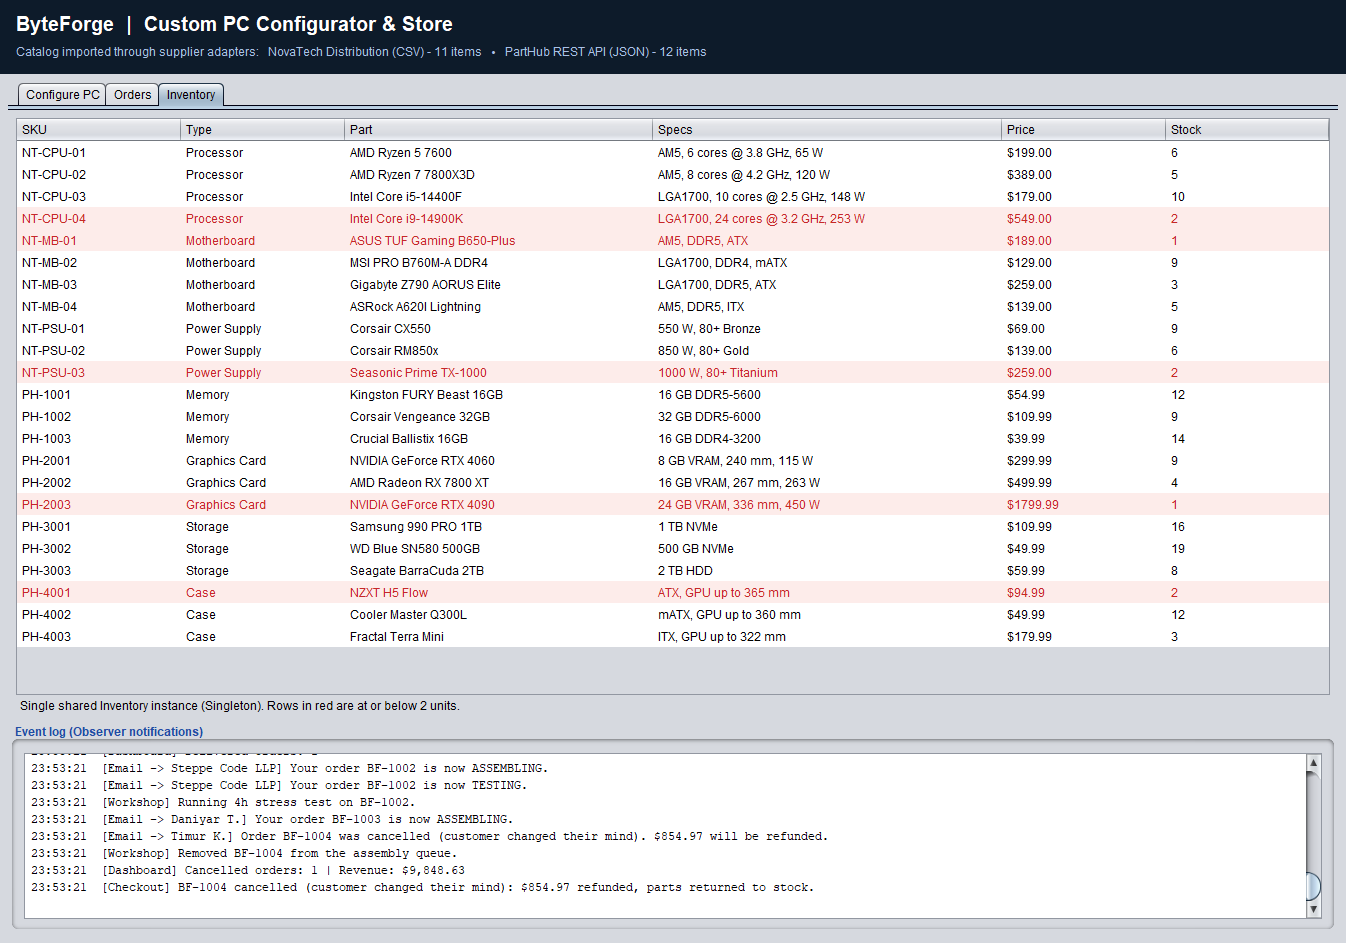
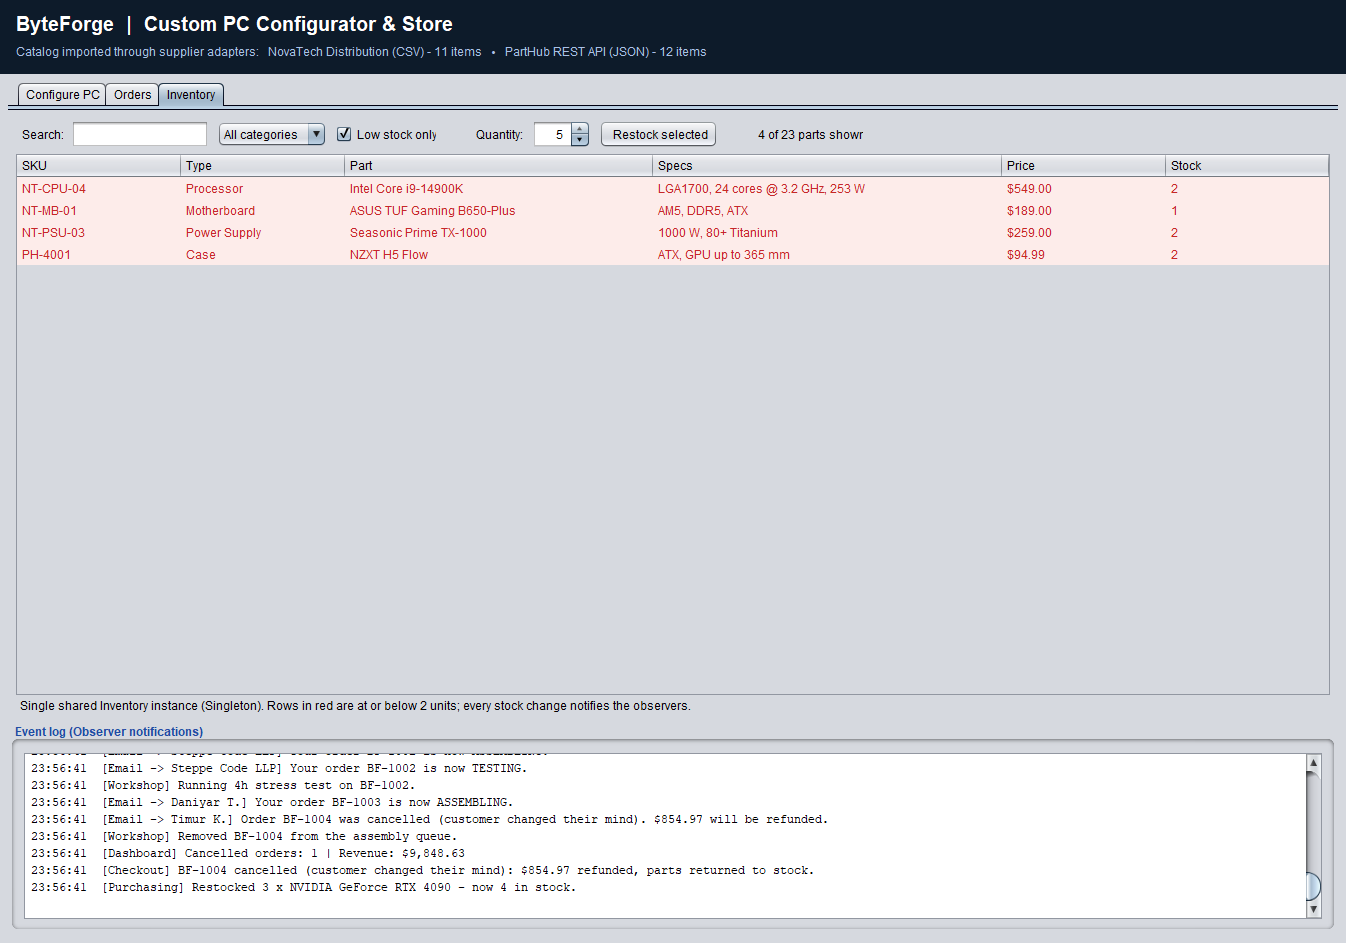
Add inventory search, filters and restocking to the GUI
- Inventory tab toolbar: text search (SKU, name, specs), category
  filter, "low stock only" filter and a counter of shown parts
- "Restock selected" with a quantity; goes through the new
  StoreFacade.restock(), which logs the delivery for purchasing
- Screenshot tour restocks the RTX 4090 and shows the low-stock view
- Add .gitattributes so line endings are normalised (run.bat keeps CRLF)
- New Facade restock test (45 tests, all passing)

diff --git a/src/com/byteforge/ui/MainFrame.java b/src/com/byteforge/ui/MainFrame.java
@@ -23,6 +23,7 @@ import javax.swing.border.EmptyBorder;
 import javax.swing.border.TitledBorder;
 import javax.swing.table.AbstractTableModel;
 import javax.swing.table.DefaultTableCellRenderer;
+import javax.swing.table.TableRowSorter;
 import java.awt.*;
 import java.time.LocalTime;
 import java.time.format.DateTimeFormatter;
@@ -67,9 +68,16 @@ public class MainFrame extends JFrame implements ConfigurationEditor {
     private final OrdersModel ordersModel = new OrdersModel();
     private final JTable ordersTable = new JTable(ordersModel);
     private final JLabel dashboardLabel = new JLabel();
-    private final JLabel orderHint = new JLabel("Select an order to see what can happen next.");
-    private final JButton cancelButton = new JButton("Cancel selected order");
     private final InventoryModel inventoryModel = new InventoryModel();
+    private final JTable inventoryTable = new JTable(inventoryModel);
+    private TableRowSorter<InventoryModel> inventorySorter; // created once the store exists
+    private final JTextField inventorySearch = new JTextField(14);
+    private final JComboBox<String> inventoryTypeBox = new JComboBox<>();
+    private final JCheckBox lowStockOnly = new JCheckBox("Low stock only");
+    private final JSpinner restockQty = new JSpinner(new SpinnerNumberModel(5, 1, 100, 1));
+    private final JLabel inventoryCount = new JLabel();
+    private final JLabel orderHint =new JLabel("Select an order to see what can happen next.");
+    private final JButton cancelButton = new JButton("Cancel selected order");
     private final JTabbedPane tabs = new JTabbedPane();
 
     private Computer currentComputer;
@@ -286,19 +294,89 @@ public class MainFrame extends JFrame implements ConfigurationEditor {
     }
 
     private JComponent inventoryTab() {
-        JTable table = new JTable(inventoryModel);
-        table.setRowHeight(22);
-        table.setAutoCreateRowSorter(true);
-        table.getColumnModel().getColumn(2).setPreferredWidth(220);
-        table.getColumnModel().getColumn(3).setPreferredWidth(260);
-        table.setDefaultRenderer(Object.class, new StockRenderer());
+        inventoryTable.setRowHeight(22);
+        inventorySorter = new TableRowSorter<>(inventoryModel);
+        inventoryTable.setRowSorter(inventorySorter);
+        inventoryTable.getColumnModel().getColumn(2).setPreferredWidth(220);
+        inventoryTable.getColumnModel().getColumn(3).setPreferredWidth(260);
+        inventoryTable.setDefaultRenderer(Object.class, new StockRenderer());
+        inventoryTable.getSelectionModel().setSelectionMode(ListSelectionModel.SINGLE_SELECTION);
+
+        // ---- toolbar: search, category filter, low-stock filter, restock
+        inventoryTypeBox.addItem("All categories");
+        for (ComponentType t : ComponentType.values()) inventoryTypeBox.addItem(t.label());
+        inventorySearch.getDocument().addDocumentListener(new javax.swing.event.DocumentListener() {
+            public void insertUpdate(javax.swing.event.DocumentEvent e) { applyInventoryFilter(); }
+            public void removeUpdate(javax.swing.event.DocumentEvent e) { applyInventoryFilter(); }
+            public void changedUpdate(javax.swing.event.DocumentEvent e) { applyInventoryFilter(); }
+        });
+        inventoryTypeBox.addActionListener(e -> applyInventoryFilter());
+        lowStockOnly.addActionListener(e -> applyInventoryFilter());
+        JButton restock = new JButton("Restock selected");
+        restock.addActionListener(e -> restockSelected());
+
+        JPanel bar = new JPanel(new FlowLayout(FlowLayout.LEFT, 8, 4));
+        bar.add(new JLabel("Search:"));
+        bar.add(inventorySearch);
+        bar.add(inventoryTypeBox);
+        bar.add(lowStockOnly);
+        bar.add(Box.createHorizontalStrut(24));
+        bar.add(new JLabel("Quantity:"));
+        bar.add(restockQty);
+        bar.add(restock);
+        bar.add(Box.createHorizontalStrut(24));
+        bar.add(inventoryCount);
+
         JPanel p = new JPanel(new BorderLayout());
         p.setBorder(new EmptyBorder(6, 6, 6, 6));
-        p.add(new JScrollPane(table), BorderLayout.CENTER);
+        p.add(bar, BorderLayout.NORTH);
+        p.add(new JScrollPane(inventoryTable), BorderLayout.CENTER);
         JLabel note = new JLabel("  Single shared Inventory instance (Singleton). Rows in red are at or below "
-                + Inventory.LOW_STOCK_THRESHOLD + " units.");
+                + Inventory.LOW_STOCK_THRESHOLD + " units; every stock change notifies the observers.");
         p.add(note, BorderLayout.SOUTH);
+        applyInventoryFilter();
         return p;
+    }
+
+    void applyInventoryFilter() {
+        String text = inventorySearch.getText().trim().toLowerCase();
+        String type = inventoryTypeBox.getSelectedIndex() <= 0 ? null : (String) inventoryTypeBox.getSelectedItem();
+        boolean low = lowStockOnly.isSelected();
+        inventorySorter.setRowFilter(new RowFilter<InventoryModel, Integer>() {
+            @Override
+            public boolean include(Entry<? extends InventoryModel, ? extends Integer> e) {
+                Component c = store.getAllParts().get(e.getIdentifier());
+                if (type != null && !c.getType().label().equals(type)) return false;
+                if (low && store.getStock(c) > Inventory.LOW_STOCK_THRESHOLD) return false;
+                if (text.isEmpty()) return true;
+                return (c.getSku() + " " + c.getName() + " " + c.getSpecs()).toLowerCase().contains(text);
+            }
+        });
+        inventoryCount.setText(inventoryTable.getRowCount() + " of " + store.getAllParts().size() + " parts shown");
+        inventoryCount.revalidate();
+    }
+
+    private void restockSelected() {
+        int row = inventoryTable.getSelectedRow();
+        if (row < 0) {
+            showError("Select a part in the table first.", "Restock");
+            return;
+        }
+        restockPart(store.getAllParts().get(inventoryTable.convertRowIndexToModel(row)), (Integer) restockQty.getValue());
+    }
+
+    void restockPart(Component c, int qty) {
+        store.restock(c, qty);
+        inventoryModel.fireTableDataChanged();
+        applyInventoryFilter();
+        refreshPickerLabels();
+    }
+
+    void setInventoryFilter(String text, int typeIndex, boolean lowOnly) {
+        inventorySearch.setText(text);
+        inventoryTypeBox.setSelectedIndex(typeIndex);
+        lowStockOnly.setSelected(lowOnly);
+        applyInventoryFilter();
     }
 
     // =============================================================== behaviour

diff --git a/test/com/byteforge/PatternTests.java b/test/com/byteforge/PatternTests.java
@@ -366,6 +366,13 @@ public final class PatternTests {
             eq(0, store.getPaymentGateway().openHolds());
             eq(0, store.getOrders().size());
         });
+        test("Facade", "restock adds units and rejects non-positive quantities", () -> {
+            Parts.Gpu gpu = sku("PH-2003");
+            store.restock(gpu, 3);
+            eq(5, Inventory.getInstance().getStock(gpu));
+            expect(IllegalArgumentException.class, () -> store.restock(gpu, 0));
+            check(log.stream().anyMatch(l -> l.contains("Restocked 3 x")), log.toString());
+        });
         test("Facade", "quote equals the order total", () -> {
             Computer c = preset(BuildDirector.Preset.OFFICE);
             PricingStrategy s = new PricingStrategies.CorporateBulk();

diff --git a/src/com/byteforge/facade/StoreFacade.java b/src/com/byteforge/facade/StoreFacade.java
@@ -92,6 +92,16 @@ public class StoreFacade {
         return inventory.all();
     }
 
+    /** Purchasing receives a delivery from a supplier. */
+    public void restock(Component c, int quantity) {
+        if (quantity <= 0) {
+            throw new IllegalArgumentException("Quantity must be positive");
+        }
+        inventory.restock(c, quantity);
+        log.accept(String.format("[Purchasing] Restocked %d x %s - now %d in stock.",
+                quantity, c.getName(), inventory.getStock(c)));
+    }
+
     // ------------------------------------------------------------ configuring
 
     public PCBuilder newBuild() {

diff --git a/src/com/byteforge/ui/ScreenshotTour.java b/src/com/byteforge/ui/ScreenshotTour.java
@@ -109,6 +109,8 @@ public final class ScreenshotTour {
         shot(f, new File(dir, "05_orders_observer.png"));
 
         f.tabs().setSelectedIndex(2);
+        f.restockPart(part("PH-2003"), 3);          // purchasing receives three RTX 4090
+        f.setInventoryFilter("", 0, true);          // show only parts that are running low
         shot(f, new File(dir, "06_inventory_singleton.png"));
         f.dispose();
     }

diff --git a/README.md b/README.md
@@ -24,8 +24,9 @@ Requires JDK 11+.
 
 - `run.bat` - start the GUI
 - `run.bat --console` - console demo of all patterns
-- `run.bat --test` - 44 automated tests (no external libraries)
+- `run.bat --test` - 45 automated tests (no external libraries)
 - `run.bat --screenshots docs\screenshots` - regenerate report screenshots
+- Inventory tab: search, filter by category or low stock, and restock parts
 - IntelliJ IDEA: open the folder and use the run configurations
   *ByteForge GUI*, *ByteForge Console demo* or *ByteForge Tests*.
 
